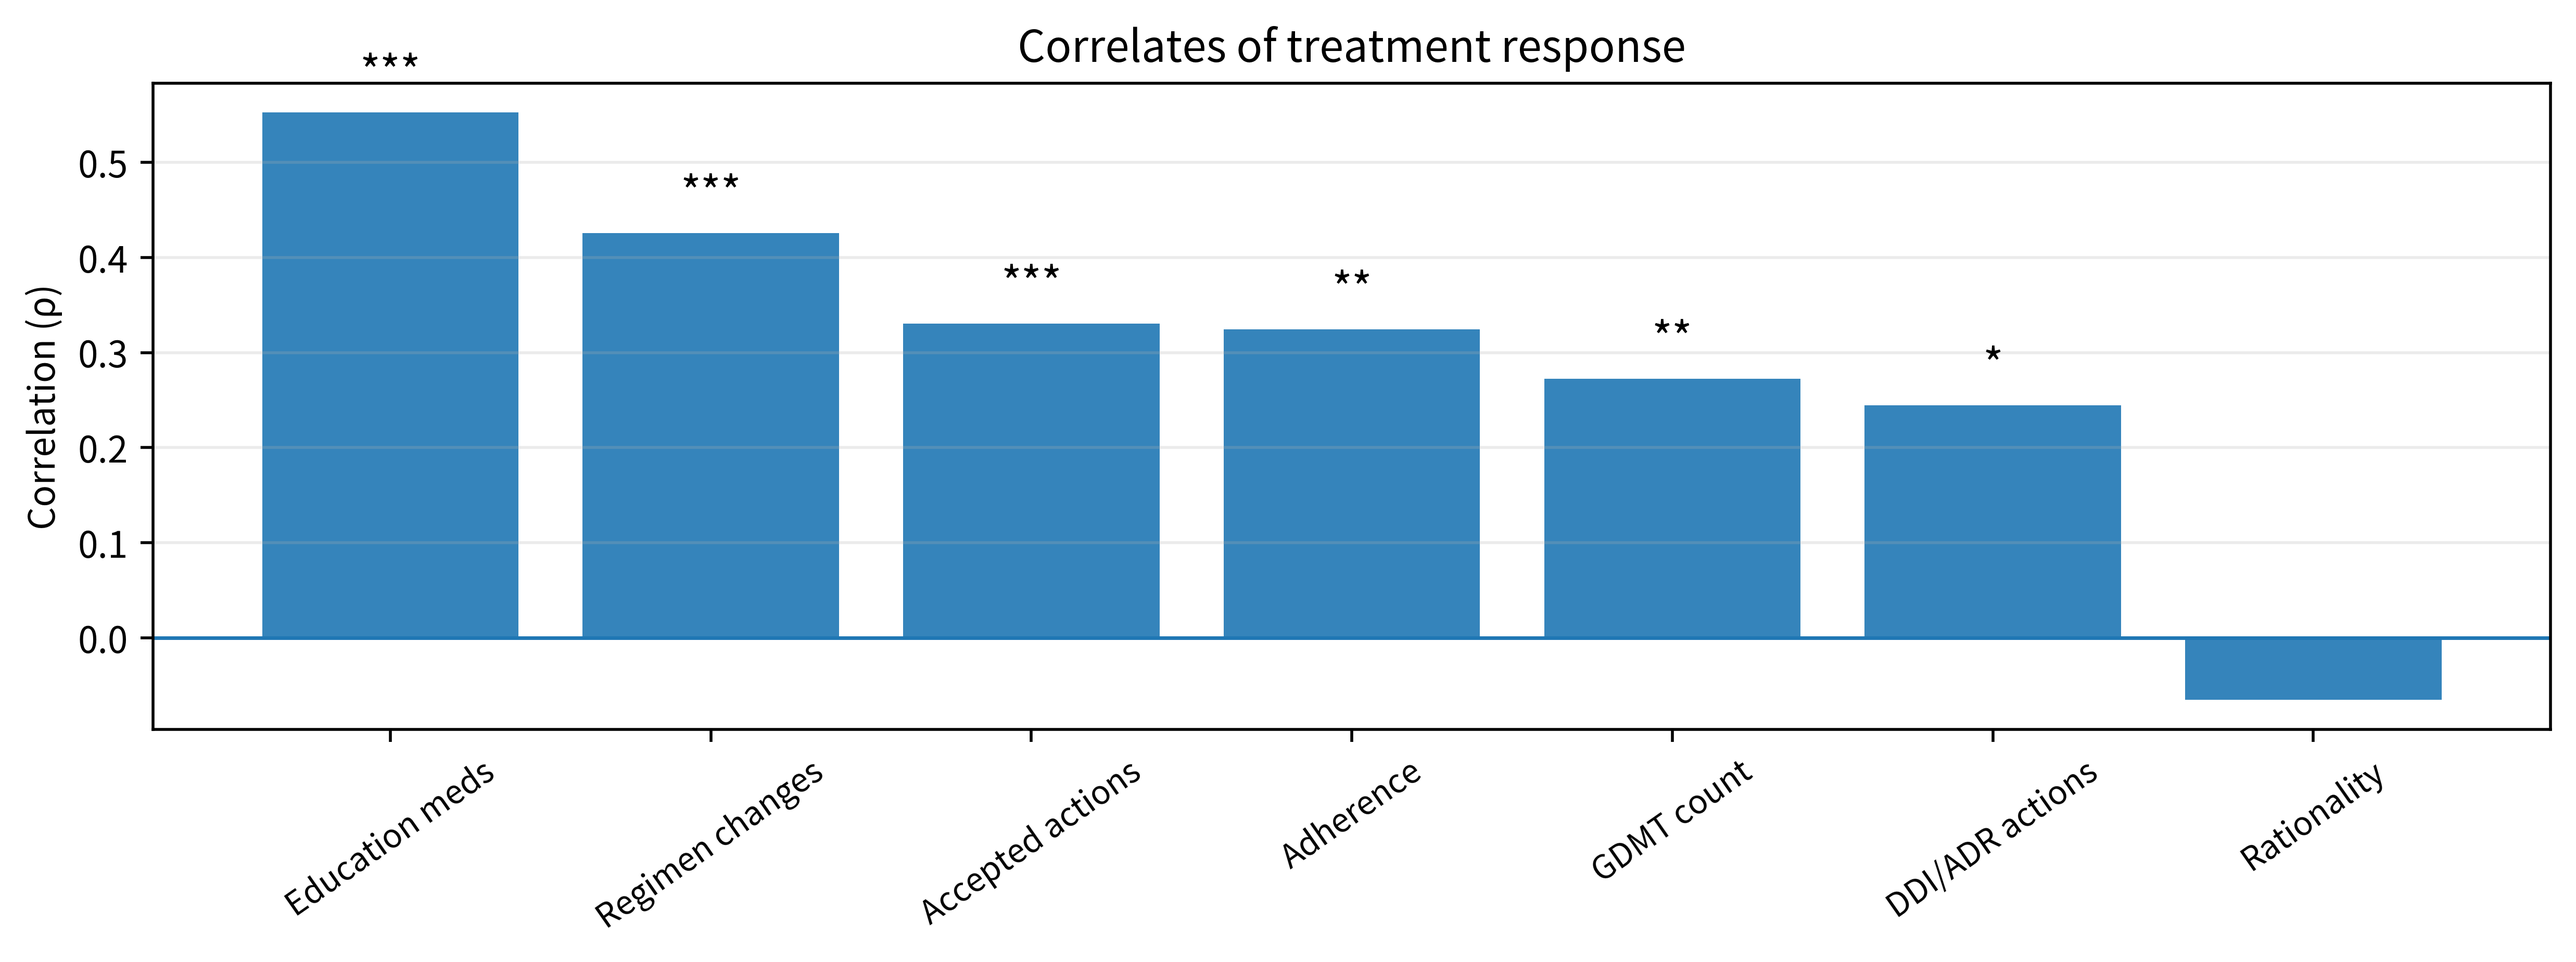
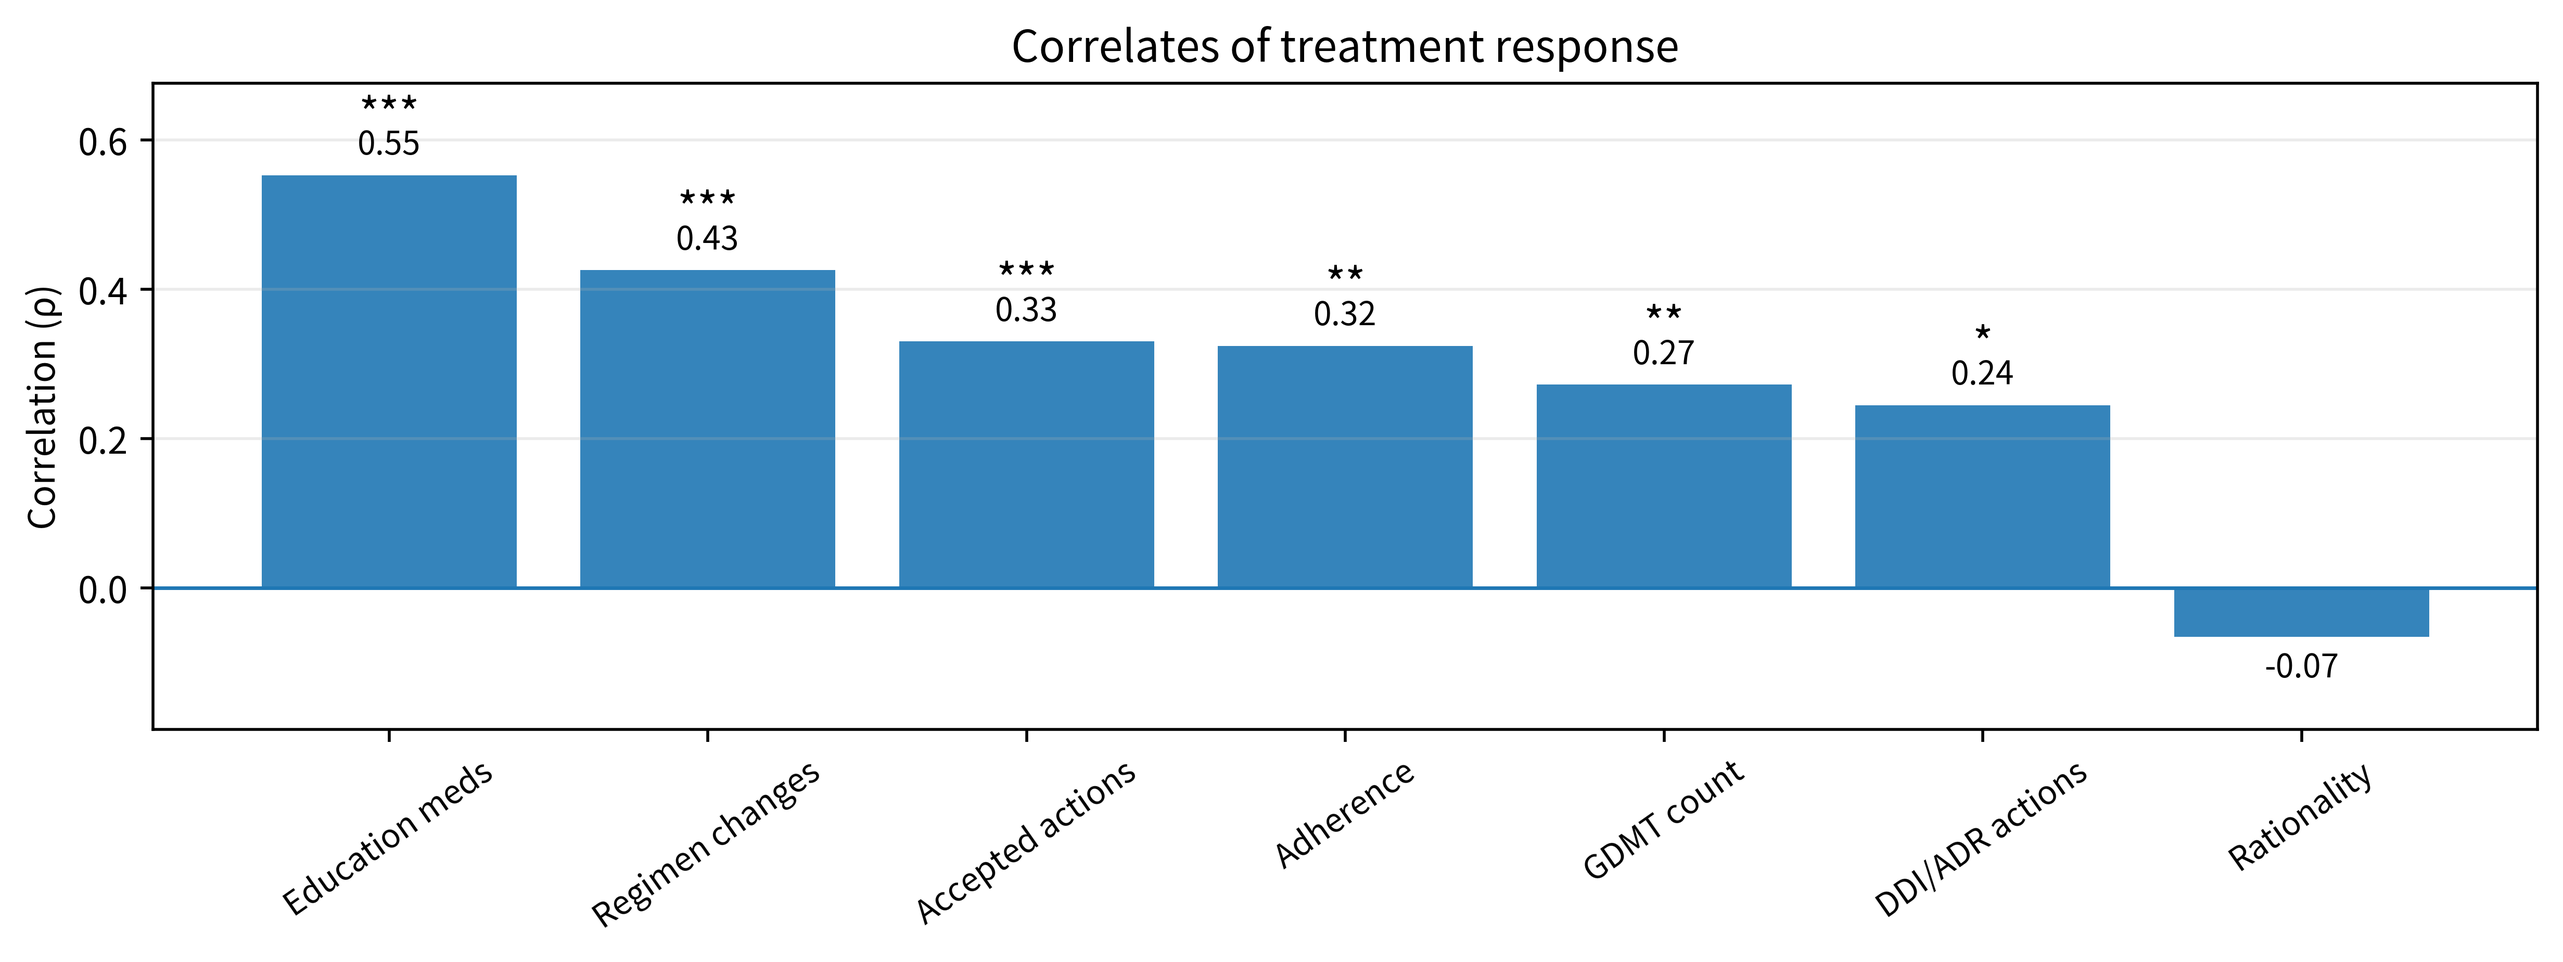
update

diff --git a/corr_plot.py b/corr_plot.py
@@ -131,7 +131,6 @@ def main():
             "Please verify your Excel headers match the keys in FEATURE_NAME_MAP."
         )
 
-    # Optional: sort by correlation (like many paper figures)
     res = res.sort_values("corr", ascending=False).reset_index(drop=True)
 
     # ---- Plot (English) ----
@@ -150,20 +149,40 @@ def main():
     ax.set_xticklabels(res["feature_label"].tolist(), rotation=35, ha="center")
     ax.tick_params(axis="x", labelsize=9)
 
-    # Stars
+    # Stars + numeric values
+    # ---- 调整坐标轴范围 ----
     y_vals = res["corr"].values
-    scale = np.nanmax(np.abs(y_vals)) if len(y_vals) else 1.0
-    offset = 0.03 * (scale if np.isfinite(scale) and scale > 0 else 1.0)
+    ymax = np.nanmax(y_vals)
+    ymin = np.nanmin(y_vals)
+
+    y_range = ymax - ymin
+    if y_range == 0:
+        y_range = 1.0
+
+    margin = 0.20 * y_range
+    ax.set_ylim(ymin - margin, ymax + margin)
+
+    # ---- offset ----
+    value_offset = 0.03 * y_range
+    star_offset = 0.08 * y_range
 
     for i, (r, p) in enumerate(zip(res["corr"].values, res["p"].values)):
-        st = stars_from_p(p)
-        if not st:
-            continue
+        # ---- 数值 ----
+        value_text = f"{r:.2f}"  # 保留两位小数
         if r >= 0:
-            ax.text(i, r + offset, st, ha="center", va="bottom", fontsize=12)
+            ax.text(
+                i, r + value_offset, value_text, ha="center", va="bottom", fontsize=9
+            )
         else:
-            ax.text(i, r - offset, st, ha="center", va="top", fontsize=12)
+            ax.text(i, r - value_offset, value_text, ha="center", va="top", fontsize=9)
 
+        # ---- 星号 ----
+        st = stars_from_p(p)
+        if st:
+            if r >= 0:
+                ax.text(i, r + star_offset, st, ha="center", va="bottom", fontsize=12)
+            else:
+                ax.text(i, r - star_offset, st, ha="center", va="top", fontsize=12)
     ax.grid(True, axis="y", alpha=0.25)
     fig.tight_layout()
     fig.savefig(args.out_png, bbox_inches="tight")

diff --git a/clinical_boxplot.py b/clinical_boxplot.py
@@ -363,7 +363,7 @@ def main():
         export_boxplot_stats_to_csv(
             df,
             cluster_col="cluster_kmeans_bestk",
-            metric_base="egfr",
+            metric_base=m,
             out_csv=f"clinical_boxplots/{m}_boxplot_stats.csv",
         )
         if ok:
